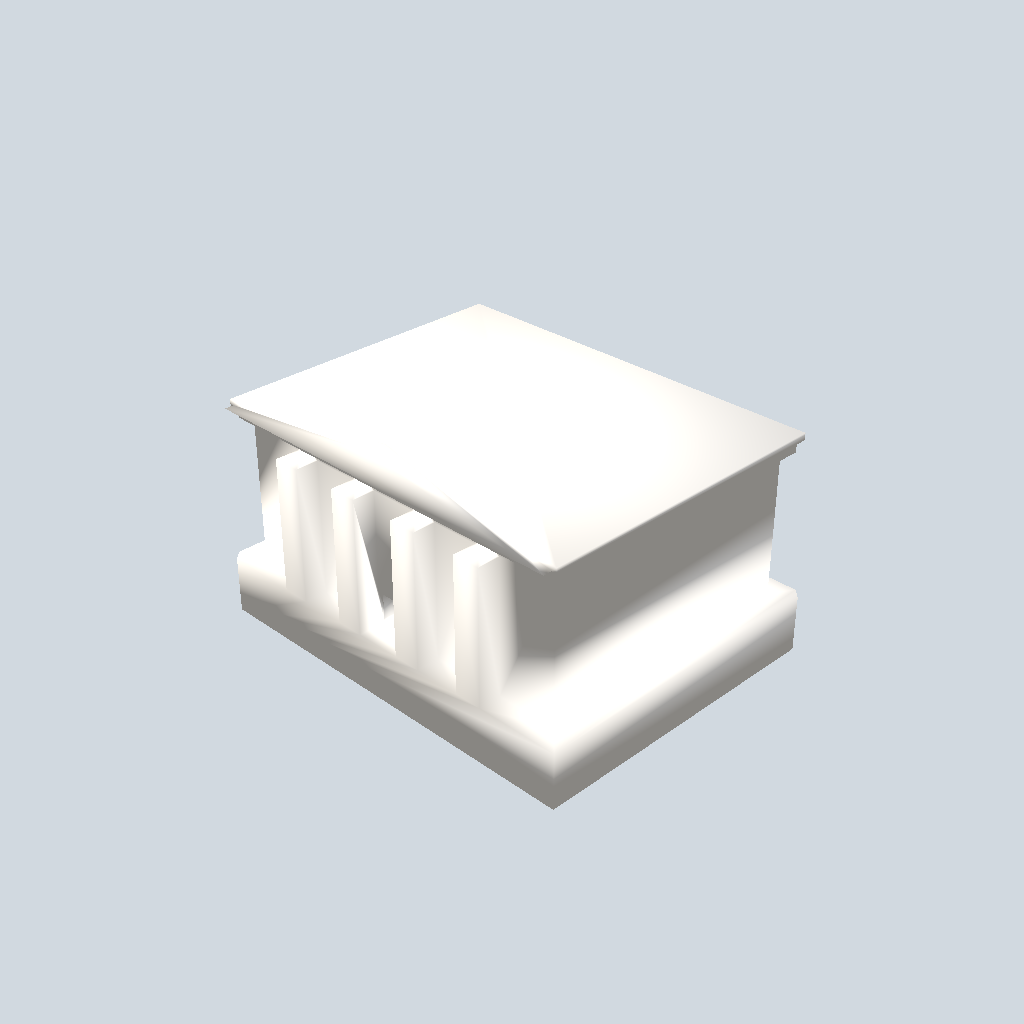
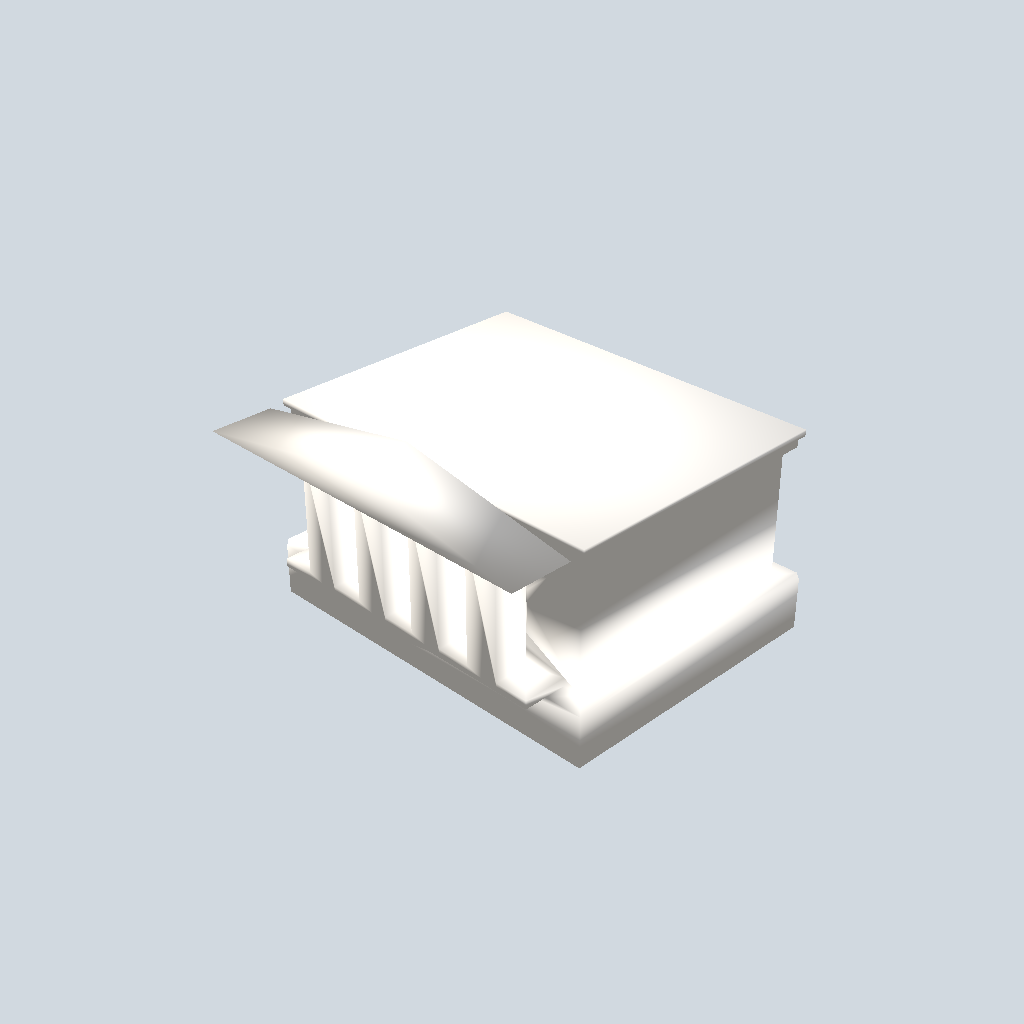
Fix visual quality issues in 3 styles: barrel_roof, classical, victorian
- barrel_roof: fix rotate_x(-90) → rotate_x(90), same axis bug as gabled_roof
  had earlier. Mediterranean style now renders correctly with curved roof.
- classical: enlarge columns (0.5→0.8mm), add portico slab, deeper pediment,
  move column definitions before pediment for correct reference order.
- victorian: increase turret radius (0.8→max(1.2, 15% width)), taller cone cap.

All 119 tests still pass. Re-rendered affected styles and updated style grid.

https://claude.ai/code/session_015AYh81CVaTpAYgbsphRBj4

diff --git a/src/hotel_generator/styles/classical.py b/src/hotel_generator/styles/classical.py
@@ -76,17 +76,24 @@ class ClassicalStyle(HotelStyle):
         # Additions
         additions = []
 
+        # Column dimensions (defined early since pediment references them)
+        col_w = max(profile.min_column_width, 0.8)
+        num_cols = 4
+        col_spacing = w / (num_cols + 1)
+        col_h = total_h
+        col_standoff = col_w * 0.8  # how far columns stand in front of wall
+
         # Entablature (horizontal band at top of columns)
         entablature_h = 0.3
         entablature = box(w + 0.4, d + 0.4, entablature_h)
         entablature = translate(entablature, z=total_h - BOOLEAN_EMBED)
         additions.append(entablature)
 
-        # Triangular pediment on front facade
-        pediment_h = fh * 0.8
-        half_w = (w + 0.4) / 2
+        # Triangular pediment on front facade — extends over portico
+        pediment_h = fh * 1.0
+        half_w = (w + 0.6) / 2
         pediment_profile = [(-half_w, 0), (half_w, 0), (0, pediment_h)]
-        pediment_depth = 0.4
+        pediment_depth = col_w * 0.8 + col_standoff + BOOLEAN_EMBED * 2
         pediment = extrude_polygon(pediment_profile, pediment_depth)
         pediment = rotate_x(pediment, 90)
         pediment = translate(
@@ -96,20 +103,21 @@ class ClassicalStyle(HotelStyle):
         )
         additions.append(pediment)
 
-        # Columns on front facade
-        col_w = max(profile.min_column_width, 0.5)
-        num_cols = 4
-        col_spacing = w / (num_cols + 1)
-        col_h = total_h * 0.9
-
+        # Columns on front facade — prominent, standing proud of wall
         for i in range(num_cols):
             x_pos = -w / 2 + col_spacing * (i + 1)
             if profile.use_window_frames:
                 col = round_column(col_w / 2, col_h)
             else:
                 col = square_column(col_w, col_h)
-            col = translate(col, x=x_pos, y=-d / 2 - col_w / 2 + BOOLEAN_EMBED)
+            col = translate(col, x=x_pos, y=-d / 2 - col_standoff)
             additions.append(col)
+
+        # Portico floor (slab connecting columns to building)
+        portico_d = col_standoff + col_w / 2 + BOOLEAN_EMBED
+        portico = box(w * 0.9, portico_d, 0.2)
+        portico = translate(portico, y=-d / 2 - portico_d / 2 + BOOLEAN_EMBED)
+        additions.append(portico)
 
         # Cornice (small overhang at top)
         cornice = box(w + 0.6, d + 0.6, 0.15)

diff --git a/src/hotel_generator/styles/victorian.py b/src/hotel_generator/styles/victorian.py
@@ -81,17 +81,17 @@ class VictorianStyle(HotelStyle):
         # Additions
         additions = []
 
-        # Round turret at the L-junction
-        turret_r = max(profile.min_column_diameter, 0.8)
-        turret_h = total_h + fh * 0.5  # taller than main building
+        # Round turret at the L-junction — prominent feature
+        turret_r = max(profile.min_column_diameter, w * 0.15, 1.2)
+        turret_h = total_h + fh * 0.8  # taller than main building
         turret = cylinder(turret_r, turret_h)
         turret_x = w / 2 - wing_w / 2
         turret_y = d / 2 - wing_d * 0.1
         turret = translate(turret, x=turret_x, y=turret_y)
         additions.append(turret)
 
-        # Conical turret cap
-        cap_h = fh * 0.8
+        # Conical turret cap — tall and pointed
+        cap_h = fh * 1.2
         cap = cone(turret_r + 0.1, 0.0, cap_h)
         cap = translate(cap, x=turret_x, y=turret_y, z=turret_h - BOOLEAN_EMBED)
         additions.append(cap)

diff --git a/src/hotel_generator/components/roof.py b/src/hotel_generator/components/roof.py
@@ -167,7 +167,9 @@ def barrel_roof(
     # Scale height: if height != radius, we scale Z
     cyl = cylinder(radius, depth, segments=segments)
     # Cylinder is along Z by default. Rotate to run along Y.
-    cyl = rotate_x(cyl, -90)
+    # rotate_x(90): Z -> -Y, Y -> Z. Cylinder Z=[0,depth] becomes Y=[-depth,0].
+    # Then translate(y=depth/2) centers it on Y.
+    cyl = rotate_x(cyl, 90)
     cyl = translate(cyl, y=depth / 2)
 
     # Cut to only keep top half
